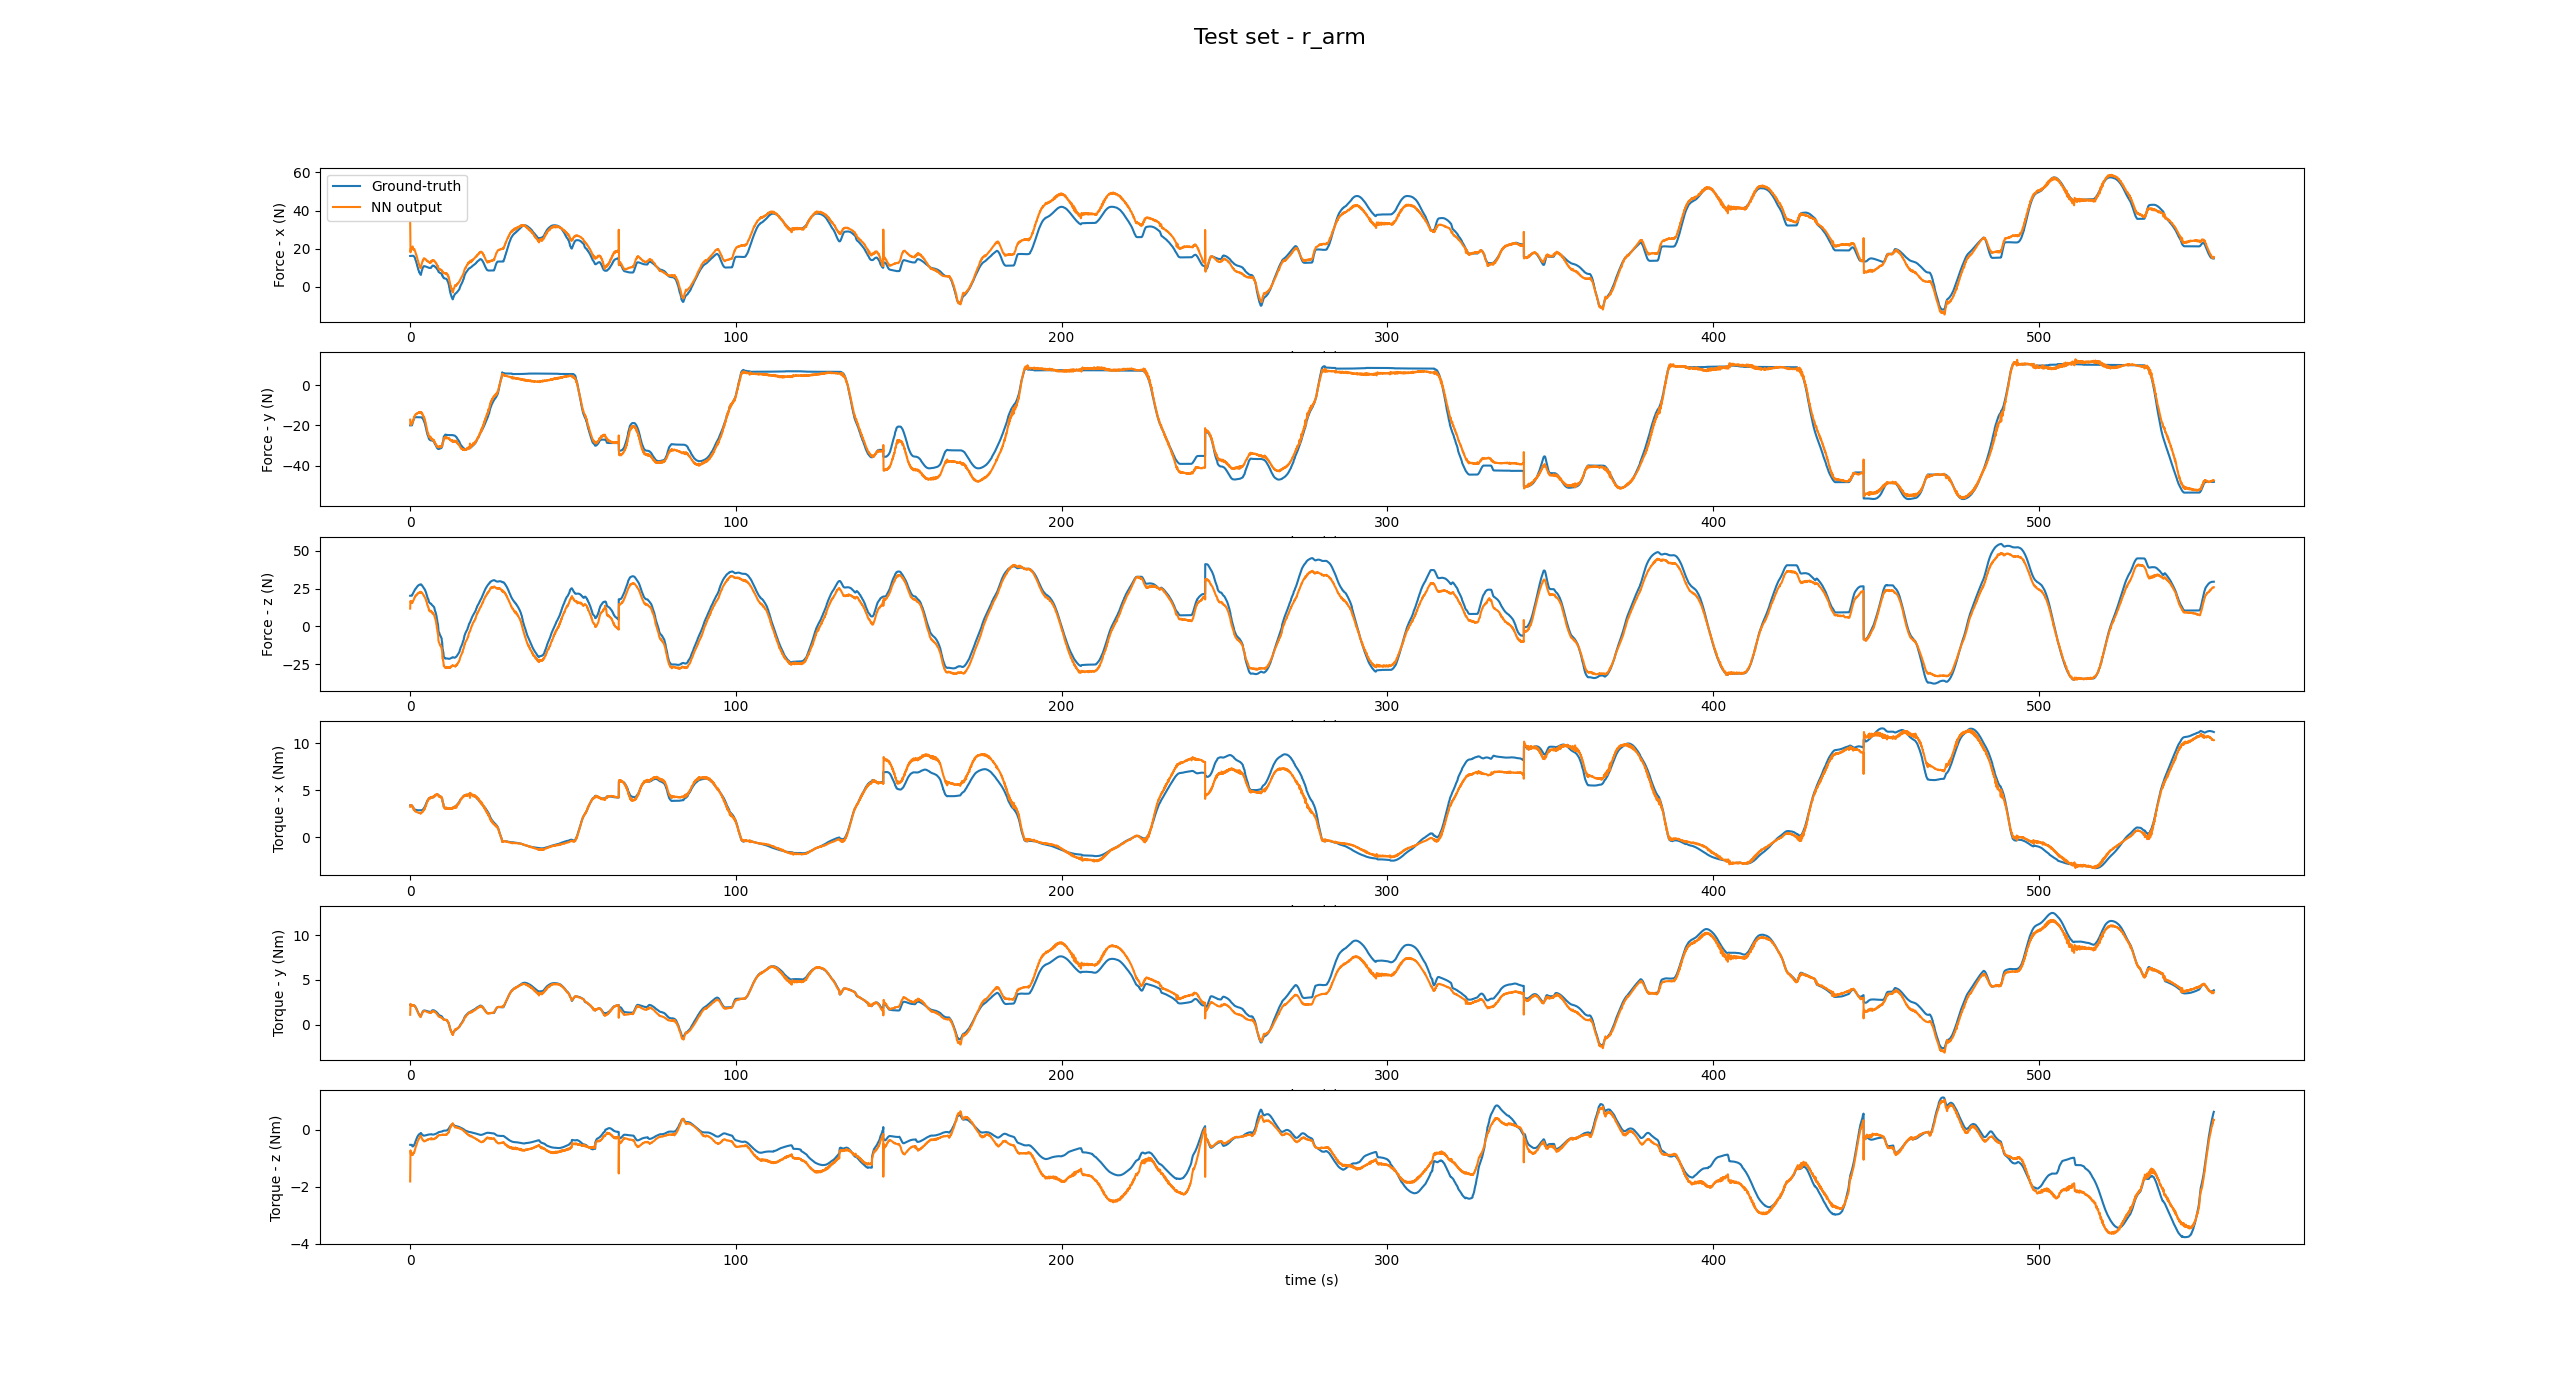
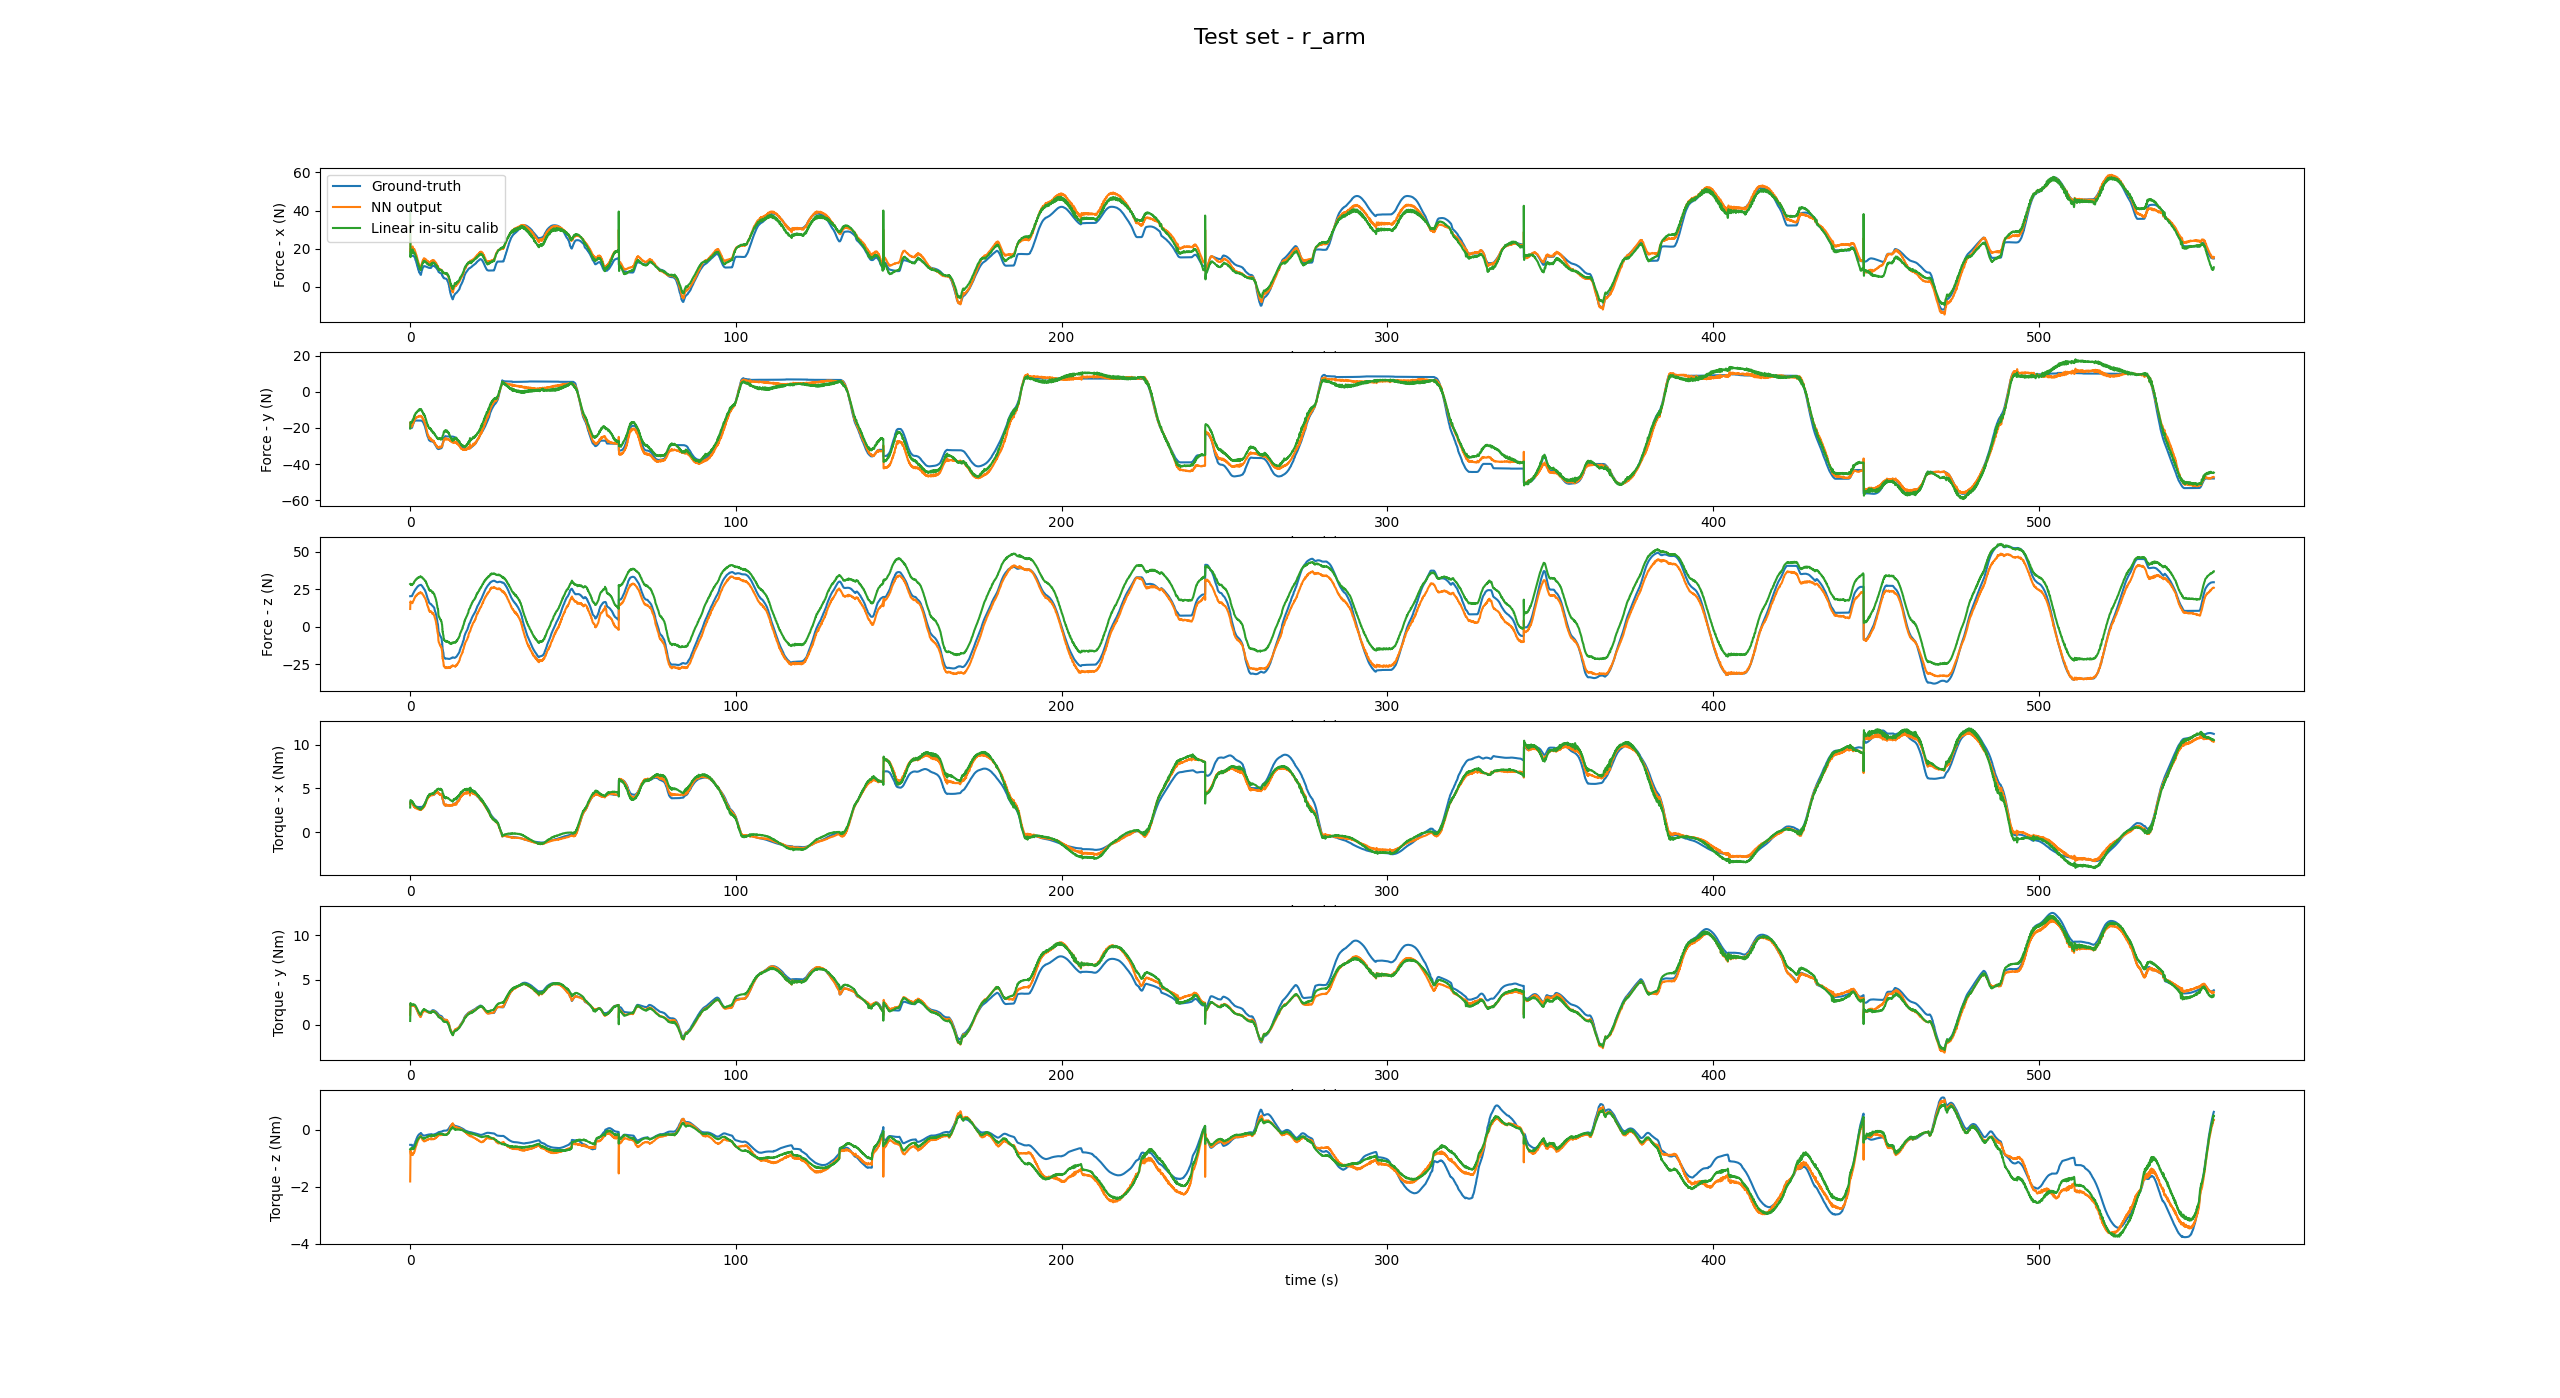
Reactivate insitu calib plots

diff --git a/python/evaluate_net.py b/python/evaluate_net.py
@@ -101,11 +101,11 @@ if __name__ == "__main__":
                 label="NN output",
             )
 
-            # ax[i].plot(
-            #     np.array(range(len(predict_dataset[:, i]))) * 0.01,
-            #     prev_predict[:, i],
-            #     label="Linear in-situ calib",
-            # )
+            ax[i].plot(
+                np.array(range(len(predict_dataset[:, i]))) * 0.01,
+                prev_predict[:, i],
+                label="Linear in-situ calib",
+            )
 
             if i == 0:
                 ax[i].legend()
@@ -126,10 +126,10 @@ if __name__ == "__main__":
         ft_filtered_NN[:, 0] = filtfilt(b, a, predict_dataset[:, 0])
         ft_filtered_NN[:, 1] = filtfilt(b, a, predict_dataset[:, 1])
         ft_filtered_NN[:, 2] = filtfilt(b, a, predict_dataset[:, 2])
-        # ft_filtered_insitu = np.zeros((len(prev_predict[:, 0]), 3))
-        # ft_filtered_insitu[:, 0] = filtfilt(b, a, prev_predict[:, 0])
-        # ft_filtered_insitu[:, 1] = filtfilt(b, a, prev_predict[:, 1])
-        # ft_filtered_insitu[:, 2] = filtfilt(b, a, prev_predict[:, 2])
+        ft_filtered_insitu = np.zeros((len(prev_predict[:, 0]), 3))
+        ft_filtered_insitu[:, 0] = filtfilt(b, a, prev_predict[:, 0])
+        ft_filtered_insitu[:, 1] = filtfilt(b, a, prev_predict[:, 1])
+        ft_filtered_insitu[:, 2] = filtfilt(b, a, prev_predict[:, 2])
 
         b, a = butter(2, 0.0003, btype='low', analog=False)
         # b, a = butter(2, 0.9999, btype='low', analog=False)
@@ -140,9 +140,9 @@ if __name__ == "__main__":
         plt.plot(np.array(range(len(predict_dataset[:, 0]))) * 0.01,
                  filtfilt(b, a, np.linalg.norm(ft_filtered_NN, axis=1) / 9.80665 - 3.5 + 0.165),
                  label="NN")
-        # plt.plot(np.array(range(len(predict_dataset[:, 0]))) * 0.01,
-        #          filtfilt(b, a, np.linalg.norm(ft_filtered_insitu, axis=1) / 9.80665 - 3.5 + 0.165),
-        #          label="Linear in-situ calib")
+        plt.plot(np.array(range(len(predict_dataset[:, 0]))) * 0.01,
+                 filtfilt(b, a, np.linalg.norm(ft_filtered_insitu, axis=1) / 9.80665 - 3.5 + 0.165),
+                 label="Linear in-situ calib")
         plt.xlabel("time (s)")
         plt.ylabel("norm(f) / g")
         plt.grid()
@@ -169,11 +169,11 @@ if __name__ == "__main__":
                 label="NN output",
             )
 
-            # ax[i].plot(
-            #     np.array(range(len(predict_dataset[:, i]))) * 0.01,
-            #     np.abs(prev_predict[:, i] - dataset["ft_expected"][:, i]),
-            #     label="Linear in-situ calib",
-            # )
+            ax[i].plot(
+                np.array(range(len(predict_dataset[:, i]))) * 0.01,
+                np.abs(prev_predict[:, i] - dataset["ft_expected"][:, i]),
+                label="Linear in-situ calib",
+            )
 
             if i == 0:
                 ax[i].legend()
